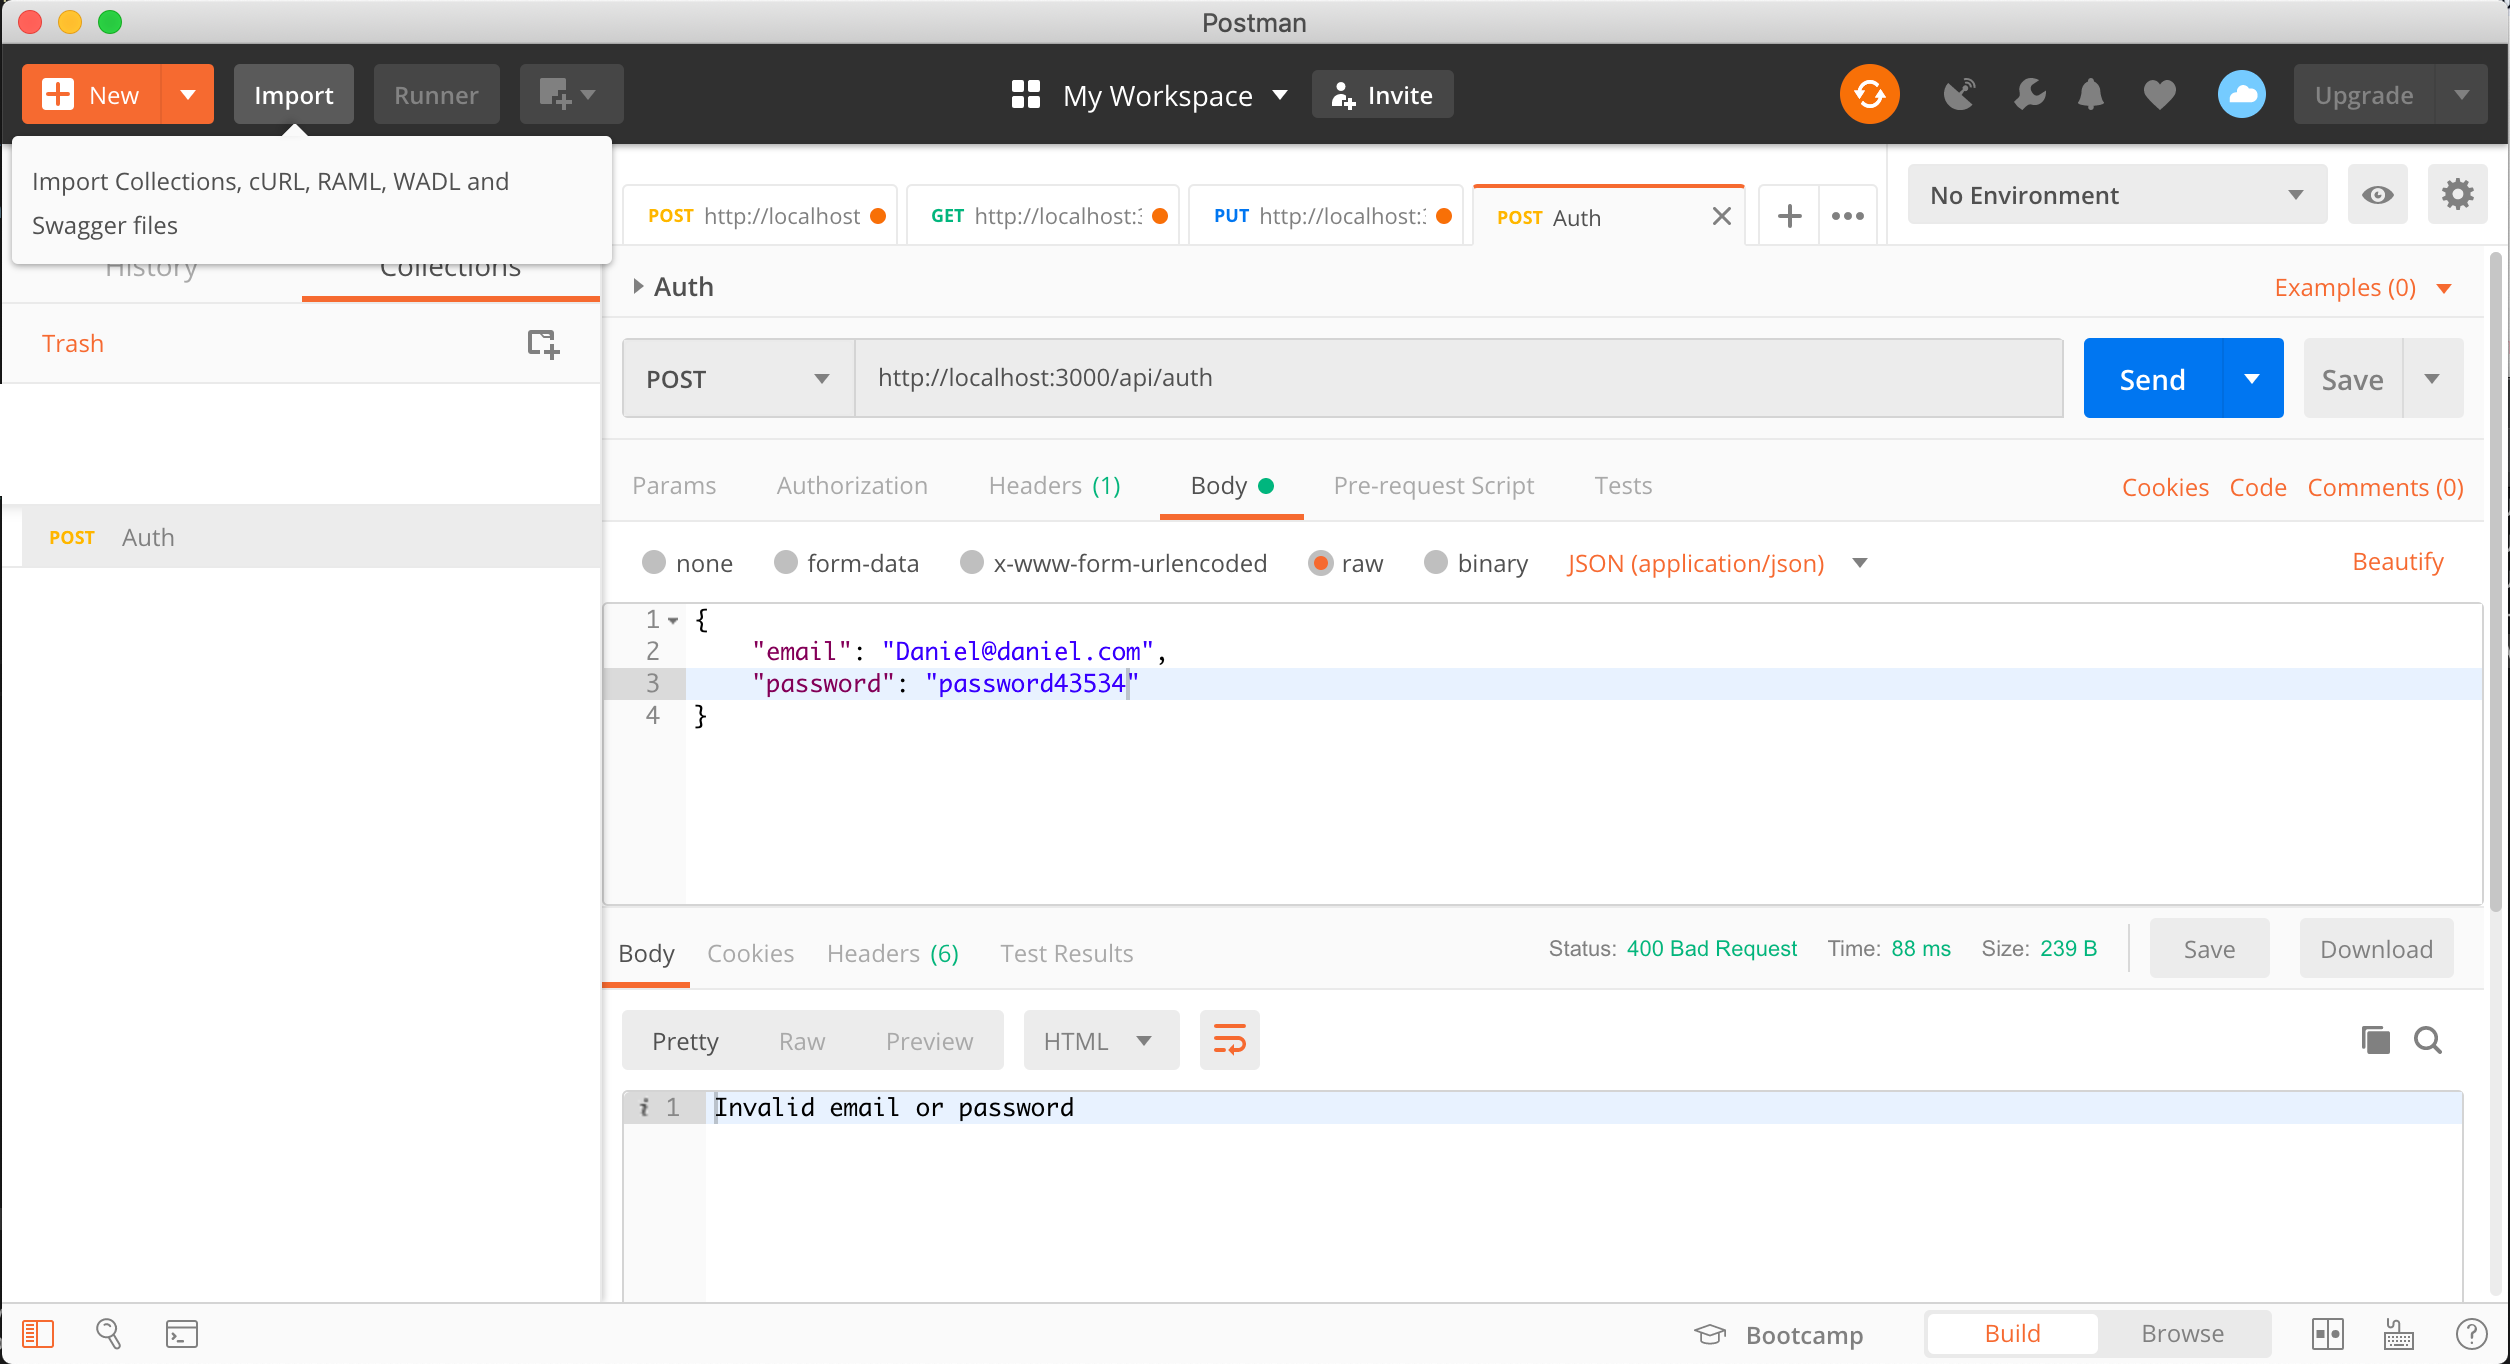
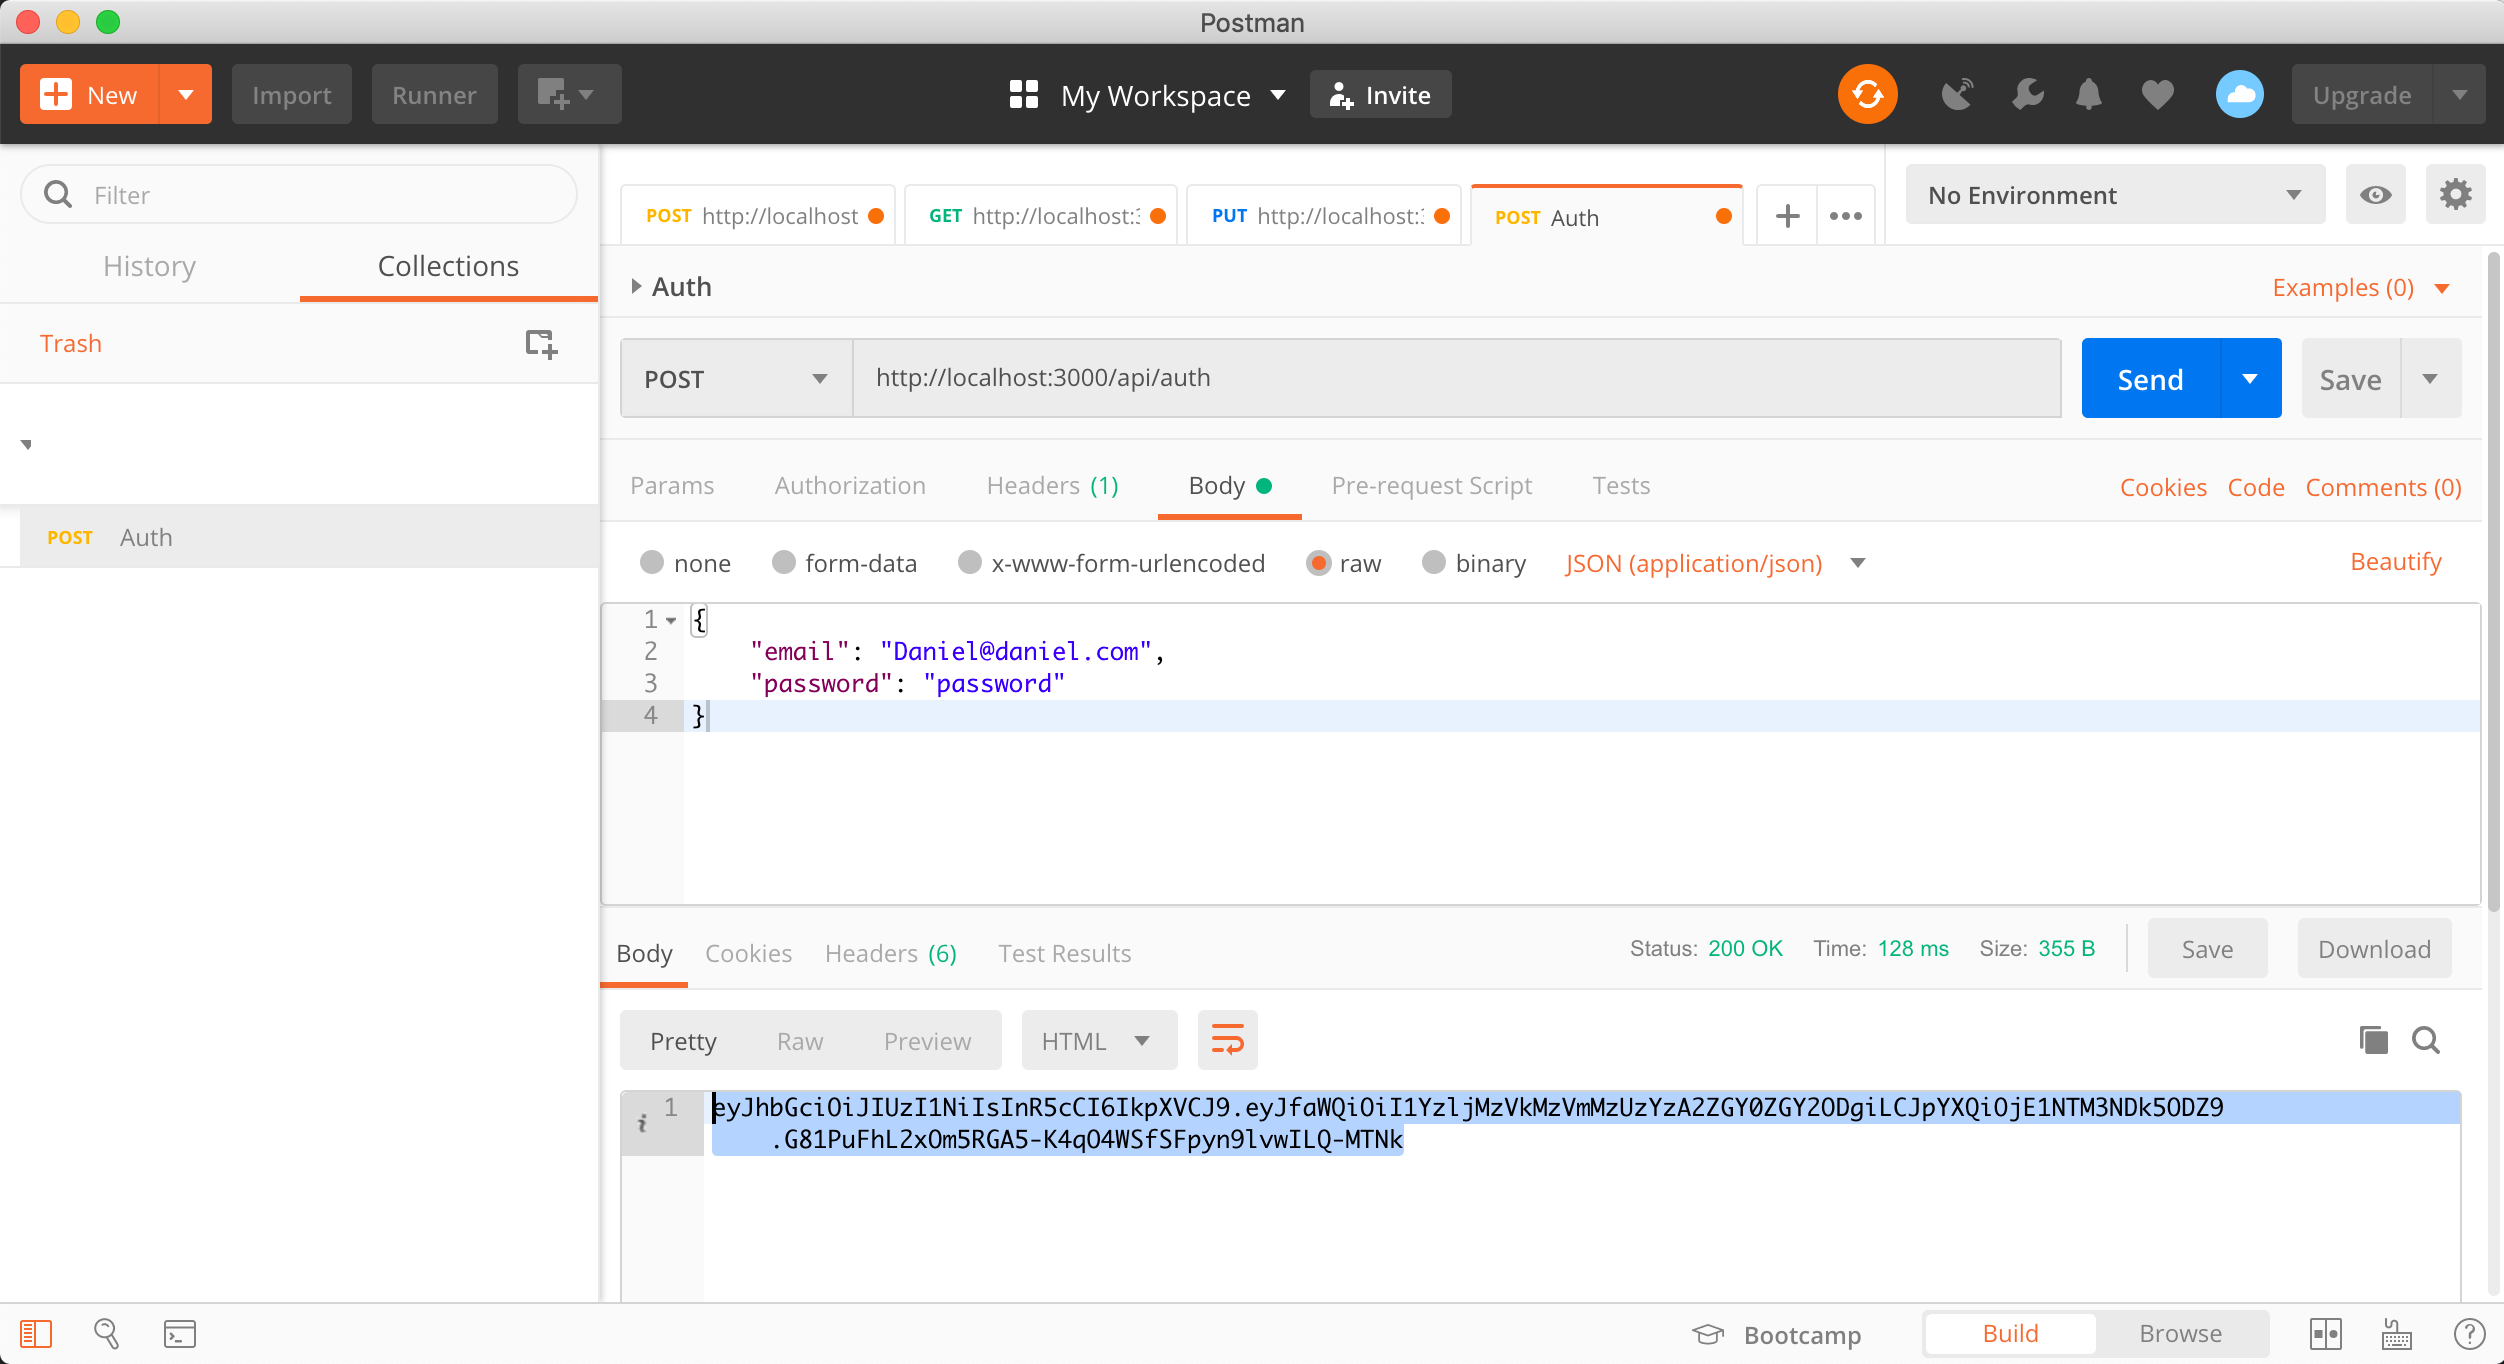
Challenge 15
Installed jsonwebtoken and incorporated it into auth route.

diff --git a/routes/auth.js b/routes/auth.js
@@ -1,4 +1,5 @@
 const bcrypt = require('bcrypt');
+const jwt = require('jsonwebtoken');
 const _ = require('lodash');
 const mongoose = require('mongoose');
 const express = require('express');
@@ -18,7 +19,8 @@ router.post('/', async (req, res) => {
   const validPassword = await bcrypt.compare(req.body.password, user.password);
   if (!validPassword) return res.status(400).send('Invalid email or password.');
 
-  res.send(true);
+  const token = jwt.sign({ _id: user._id }, 'myPrivateKey');
+  res.send(token);
 });
 
 // AUTH VALIDATION
